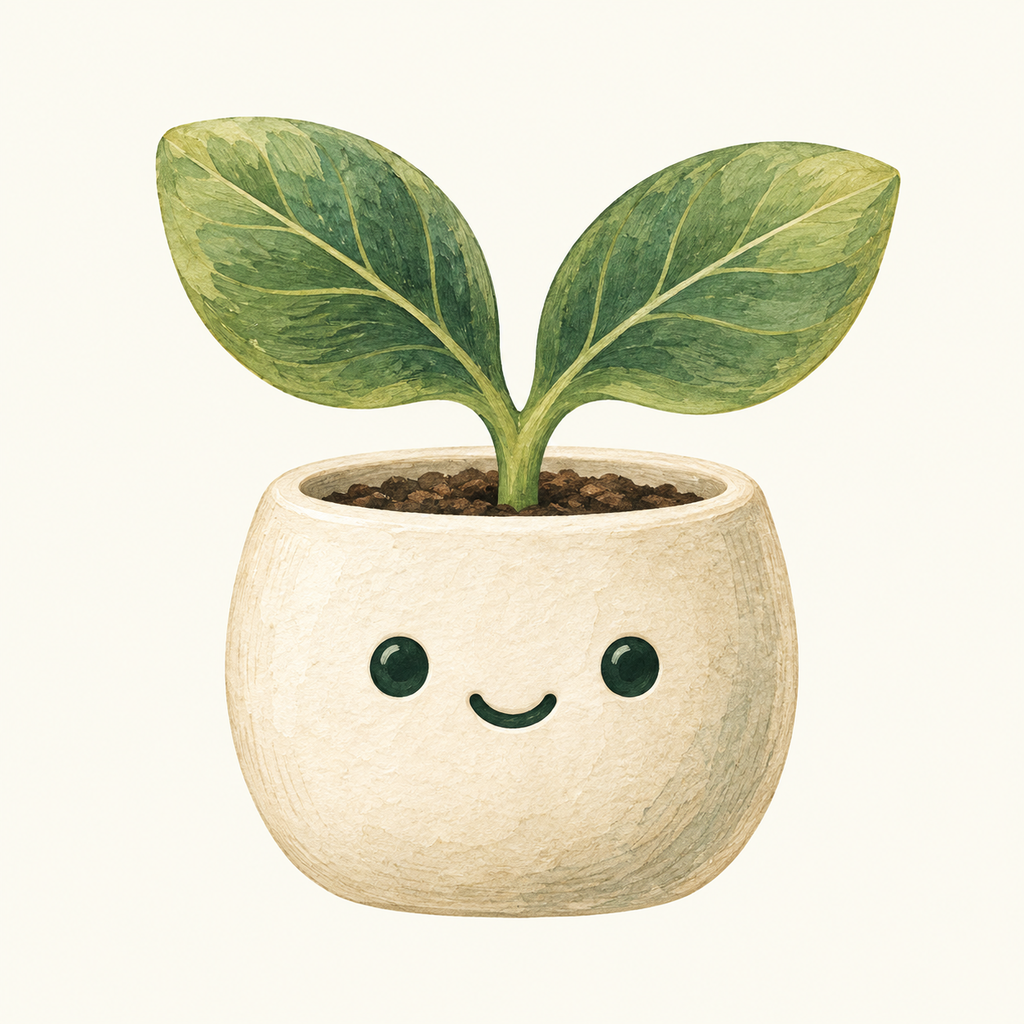
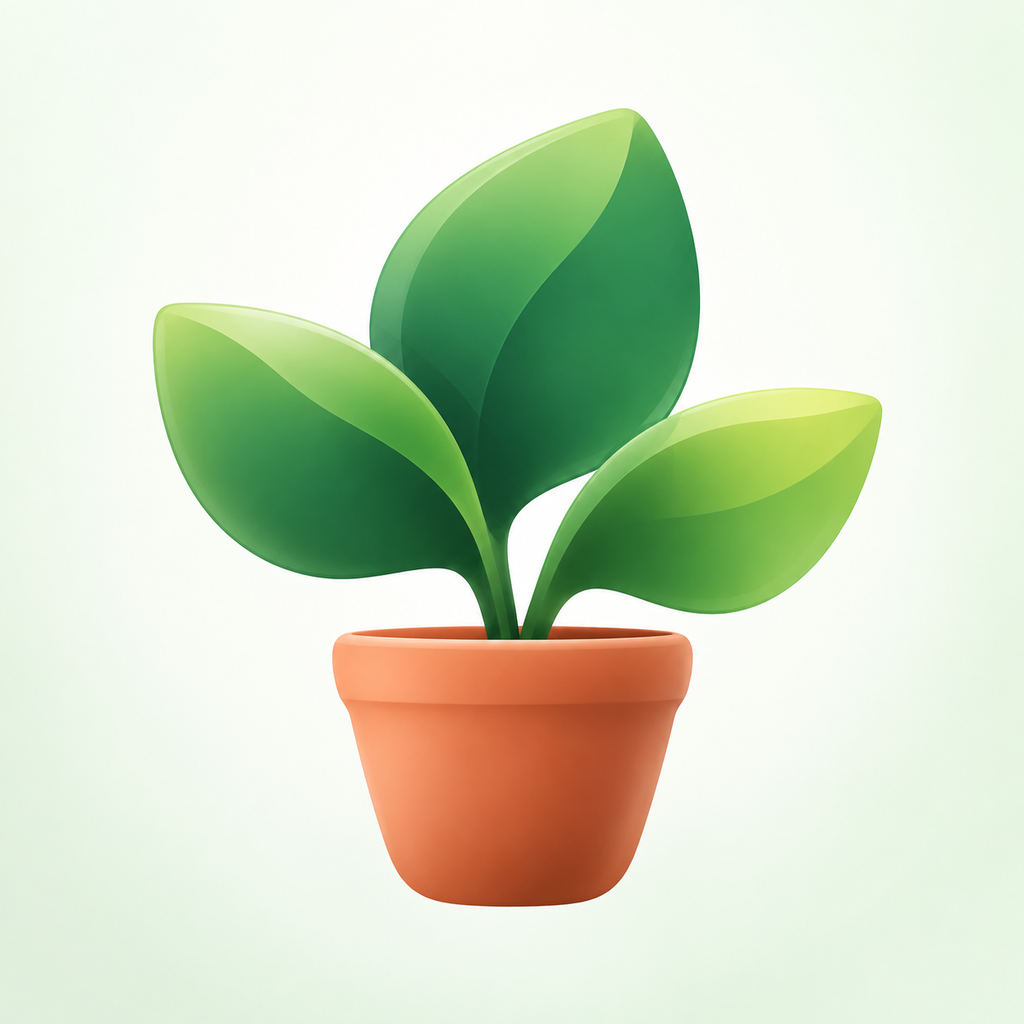
Use selected plant and pot branding across website

diff --git a/_layouts/default.html b/_layouts/default.html
@@ -14,7 +14,7 @@
   <meta property="og:description" content="{{ page.description | default: site.description | escape }}">
   <meta property="og:url" content="{{ page.url | absolute_url }}">
   <meta property="og:image" content="{{ '/assets/images/app-icon.png' | absolute_url }}">
-  <meta property="og:image:alt" content="Leafy &amp; Me: a green seedling in a cream plant pot">
+  <meta property="og:image:alt" content="Leafy &amp; Me: a three-leaf green plant in a terracotta pot">
   <link rel="icon" href="{{ '/assets/images/app-icon.png' | relative_url }}" type="image/png">
   <link rel="apple-touch-icon" href="{{ '/assets/images/app-icon.png' | relative_url }}">
   <link rel="stylesheet" href="{{ '/assets/vendor/bootstrap.min.css' | relative_url }}">
